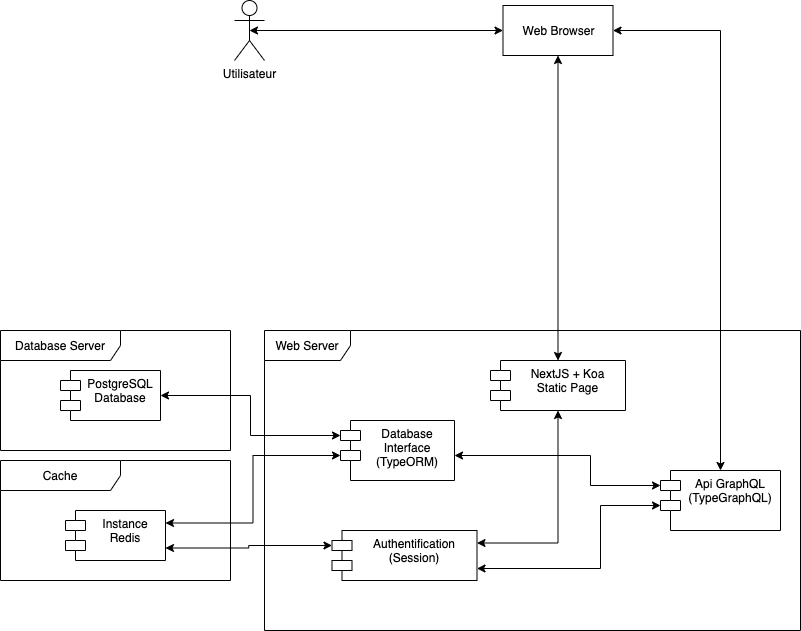
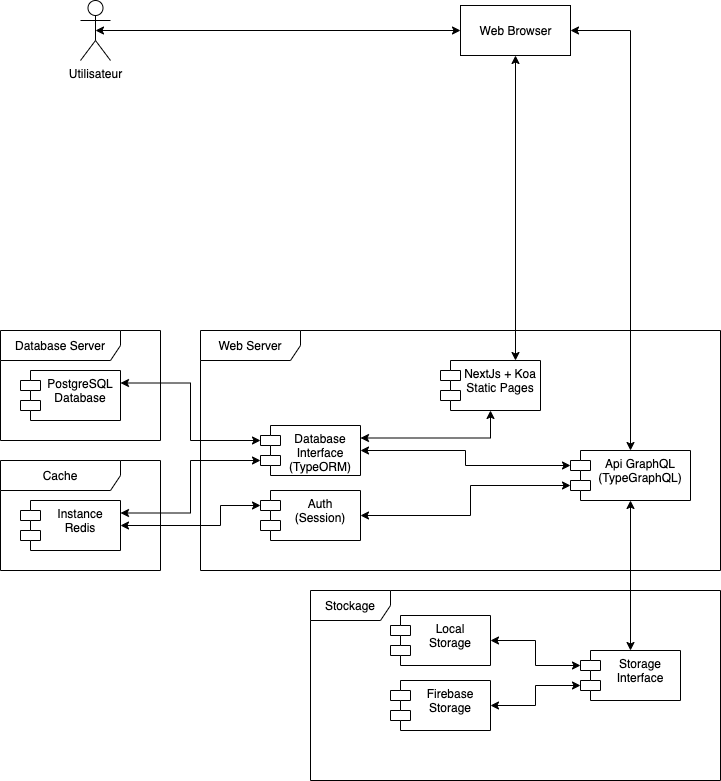
add diags

diff --git a/server/services/storage/storage-service.ts b/server/services/storage/storage-service.ts
@@ -2,6 +2,7 @@ import { Photo } from "../../gql/entity/Photo";
 import { FileType } from "server/gql/scalars/file-scalar";
 import { Service } from "typedi";
 import {
+  AvailableStrategies,
   availableStrategies,
   IStorageStrategy,
 } from "./storage-strategy-interface";
@@ -9,6 +10,12 @@ import {
 @Service()
 export class StorageService {
   private strategy: IStorageStrategy = availableStrategies["firebase"];
+
+  useStrategy(key: keyof AvailableStrategies): IStorageStrategy {
+    const strategy = availableStrategies[key];
+    if (!strategy) throw new Error("Unkown strategie: " + key);
+    return strategy;
+  }
 
   async uploadPhotos(files: FileType[]) {
     return this.strategy.uploadPhotos(files);
